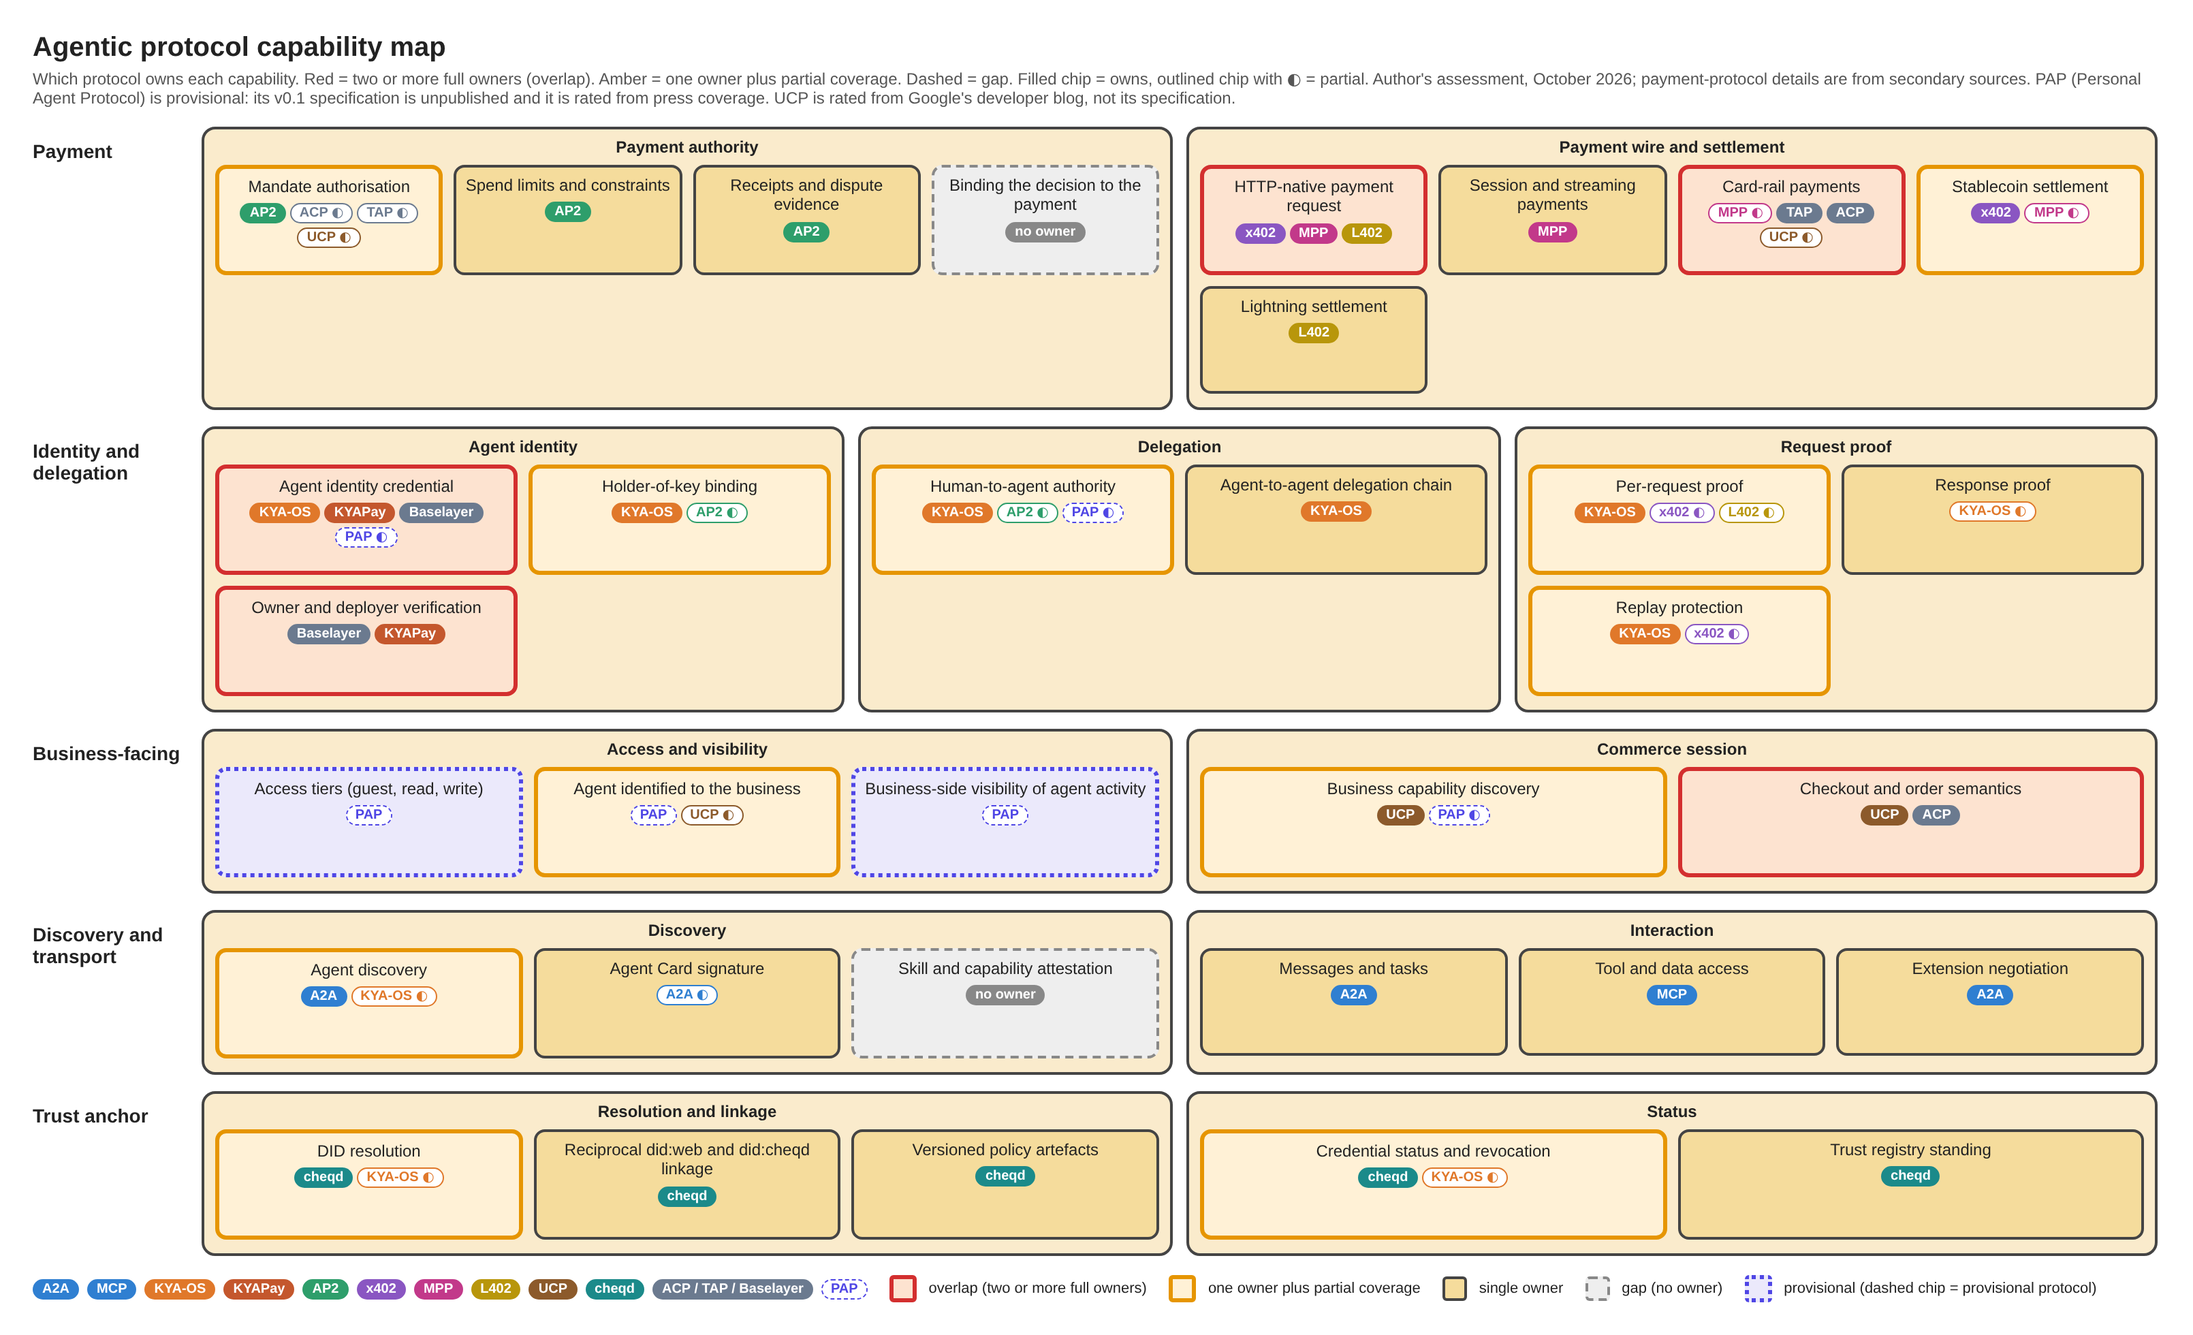
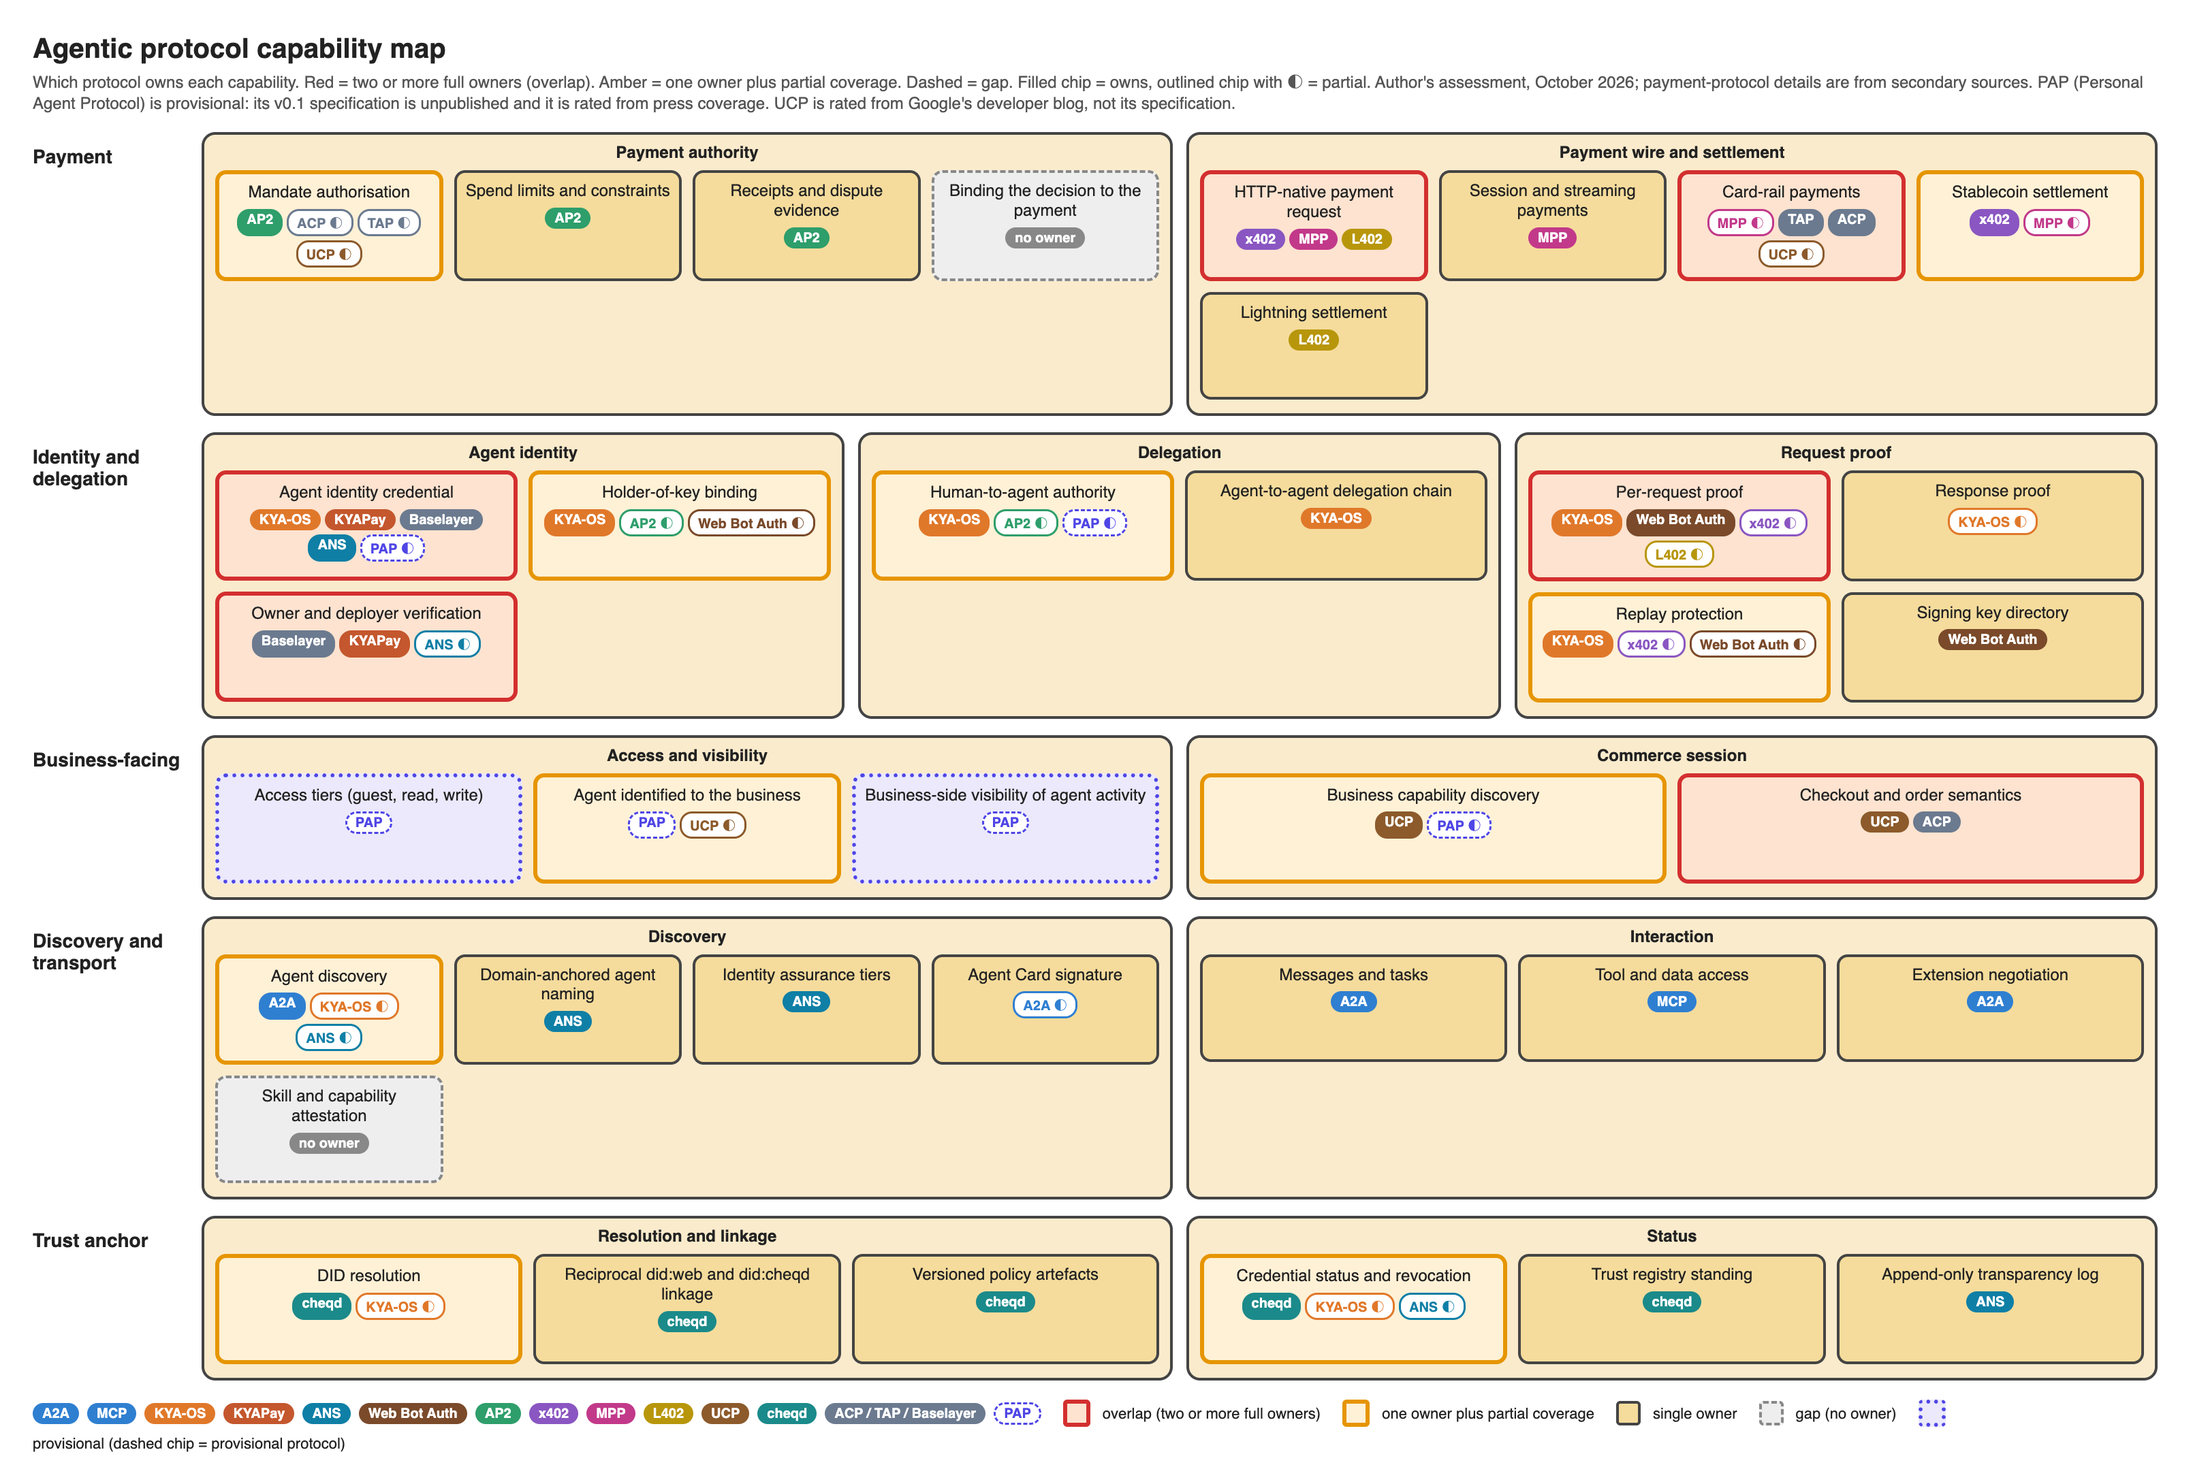
docs: add ANS and Web Bot Auth to the capability map
Add Agent Name Service (draft-narajala-courtney-ansv2-01) and Web Bot Auth
(draft-ietf-webbotauth-httpsig-protocol-00), rated from the full drafts.
Adds four capabilities, updates the matrix, counts and reading notes, and
regenerates both images.

diff --git a/docs/research/tools/capability-map/generate.py b/docs/research/tools/capability-map/generate.py
@@ -24,7 +24,8 @@ import html
 # protocol -> colour
 COL={'A2A':'#2f7fd1','KYA-OS':'#e0782a','AP2':'#2e9e6b','x402':'#8a56c2','MPP':'#c2398a','L402':'#b8960b','cheqd':'#1b8a8a',
      'ACP':'#6b7a8f','TAP':'#6b7a8f','KYAPay':'#c4572d','Baselayer':'#6b7a8f','MCP':'#2f7fd1',
-     'UCP':'#8c5a2b','PAP':'#4f46e5'}
+     'UCP':'#8c5a2b','PAP':'#4f46e5','ANS':'#0f7fa6','WebBotAuth':'#7a4a2a'}
+LABEL={'WebBotAuth':'Web Bot Auth'}
 # Protocols whose ratings are provisional (specification unpublished or rated from secondary sources).
 # Their chips render dashed, and a box owned only by provisional protocols gets a dotted border.
 PROVISIONAL={'PAP'}
@@ -46,16 +47,17 @@ ROWS=[
  ]),
  ("Identity and delegation", [
    ("Agent identity", [
-     cap("Agent identity credential",[('KYA-OS','F'),('KYAPay','F'),('Baselayer','F'),('PAP','P')]),
-     cap("Holder-of-key binding",[('KYA-OS','F'),('AP2','P')]),
-     cap("Owner and deployer verification",[('Baselayer','F'),('KYAPay','F')])]),
+     cap("Agent identity credential",[('KYA-OS','F'),('KYAPay','F'),('Baselayer','F'),('ANS','F'),('PAP','P')]),
+     cap("Holder-of-key binding",[('KYA-OS','F'),('AP2','P'),('WebBotAuth','P')]),
+     cap("Owner and deployer verification",[('Baselayer','F'),('KYAPay','F'),('ANS','P')])]),
    ("Delegation", [
      cap("Human-to-agent authority",[('KYA-OS','F'),('AP2','P'),('PAP','P')]),
      cap("Agent-to-agent delegation chain",[('KYA-OS','F')])]),
    ("Request proof", [
-     cap("Per-request proof",[('KYA-OS','F'),('x402','P'),('L402','P')]),
+     cap("Per-request proof",[('KYA-OS','F'),('WebBotAuth','F'),('x402','P'),('L402','P')]),
      cap("Response proof",[('KYA-OS','P')]),
-     cap("Replay protection",[('KYA-OS','F'),('x402','P')])]),
+     cap("Replay protection",[('KYA-OS','F'),('x402','P'),('WebBotAuth','P')]),
+     cap("Signing key directory",[('WebBotAuth','F')])]),
  ]),
  ("Business-facing", [
    ("Access and visibility", [
@@ -68,7 +70,9 @@ ROWS=[
  ]),
  ("Discovery and transport", [
    ("Discovery", [
-     cap("Agent discovery",[('A2A','F'),('KYA-OS','P')]),
+     cap("Agent discovery",[('A2A','F'),('KYA-OS','P'),('ANS','P')]),
+     cap("Domain-anchored agent naming",[('ANS','F')]),
+     cap("Identity assurance tiers",[('ANS','F')]),
      cap("Agent Card signature",[('A2A','P')]),
      cap("Skill and capability attestation",[],True)]),
    ("Interaction", [
@@ -82,8 +86,9 @@ ROWS=[
      cap("Reciprocal did:web and did:cheqd linkage",[('cheqd','F')]),
      cap("Versioned policy artefacts",[('cheqd','F')])]),
    ("Status", [
-     cap("Credential status and revocation",[('cheqd','F'),('KYA-OS','P')]),
-     cap("Trust registry standing",[('cheqd','F')])]),
+     cap("Credential status and revocation",[('cheqd','F'),('KYA-OS','P'),('ANS','P')]),
+     cap("Trust registry standing",[('cheqd','F')]),
+     cap("Append-only transparency log",[('ANS','F')])]),
  ]),
 ]
 def _arg(flag):
@@ -122,7 +127,7 @@ def box(c):
     k=kind(c); stats[k].append(c['name'])
     def chip(p,l):
         cls='chip'+(' p' if l=='P' else '')+(' prov' if p in PROVISIONAL else '')
-        return f'<span class="{cls}" style="--c:{COL[p]}">{html.escape(p)}{"" if l=="F" else " <span class=h>◐</span>"}</span>'
+        return f'<span class="{cls}" style="--c:{COL[p]}">{html.escape(LABEL.get(p,p))}{"" if l=="F" else " <span class=h>◐</span>"}</span>'
     chips=''.join(chip(p,l) for p,l in c['owners'])
     if c['gap']: chips='<span class="chip none">no owner</span>'
     prov=' prov' if c['owners'] and all(p in PROVISIONAL for p,l in c['owners']) else ''
@@ -131,7 +136,7 @@ rows=''
 for rname, groups in ROWS:
     g=''.join(f'<div class="grp"><div class="gt">{html.escape(gn)}</div><div class="caps">{"".join(box(c) for c in cs)}</div></div>' for gn,cs in groups)
     rows+=f'<div class="row"><div class="rl">{html.escape(rname)}</div><div class="groups">{g}</div></div>'
-legend=''.join(f'<span class="chip" style="--c:{COL[p]}">{p}</span>' for p in ['A2A','MCP','KYA-OS','KYAPay','AP2','x402','MPP','L402','UCP','cheqd'] if p in COL)+'<span class="chip" style="--c:#6b7a8f">ACP / TAP / Baselayer</span>'+'<span class="chip prov" style="--c:#4f46e5">PAP</span>'
+legend=''.join(f'<span class="chip" style="--c:{COL[p]}">{LABEL.get(p,p)}</span>' for p in ['A2A','MCP','KYA-OS','KYAPay','ANS','WebBotAuth','AP2','x402','MPP','L402','UCP','cheqd'] if p in COL)+'<span class="chip" style="--c:#6b7a8f">ACP / TAP / Baselayer</span>'+'<span class="chip prov" style="--c:#4f46e5">PAP</span>'
 page=f'''<!doctype html><meta charset=utf-8><style>
 body{{margin:0;padding:24px;background:#fff;font-family:Helvetica,Arial,'DejaVu Sans',sans-serif;color:#222;width:1560px}}
 h1{{font-size:20px;margin:0 0 4px}} .sub{{font-size:12px;color:#555;margin-bottom:14px}}

diff --git a/docs/research/protocol-stack-2026-10.md b/docs/research/protocol-stack-2026-10.md
@@ -10,8 +10,8 @@ Five layers, with the trust anchor underneath. Protocols at the same layer are a
 flowchart TB
     L4["<b>Layer 4 - Payment wire and settlement</b><br/><i>alternatives</i><br/>x402 (HTTP 402, stablecoin)<br/>MPP (sessions, multi-method)<br/>L402 (Lightning, macaroons)"]
     L3["<b>Layer 3 - Payment authority: who may pay, how much</b><br/>AP2 (intent, checkout and payment mandates, cnf key binding)<br/>ACP (checkout in ChatGPT)<br/>Visa TAP (card network)"]
-    L2["<b>Layer 2 - Agent identity, delegation and request proof</b><br/>KYA-OS (Entity Card, proof.v1, delegation credentials, cnf)<br/>KYAPay (kya and pay JWTs)<br/>Baselayer KYA (commercial, closed)"]
-    L1["<b>Layer 1 - Discovery and transport</b><br/>A2A (Agent Card, messages, tasks, extensions)<br/>MCP (tools and data)"]
+    L2["<b>Layer 2 - Agent identity, delegation and request proof</b><br/>KYA-OS (Entity Card, proof.v1, delegation credentials, cnf)<br/>KYAPay (kya and pay JWTs)<br/>Web Bot Auth (RFC 9421 signatures, Signature-Agent URL as identity, JWKS key directory)<br/>Baselayer KYA (commercial, closed)"]
+    L1["<b>Layer 1 - Discovery and transport</b><br/>A2A (Agent Card, messages, tasks, extensions)<br/>ANS (DNS-anchored agent names, identity certificates, transparency log, assurance tiers)<br/>MCP (tools and data)"]
     L0["<b>Layer 0 - Public trust anchor</b><br/>cheqd (did:cheqd, DID-Linked Resources, status lists, trust registries)<br/>did:web<br/>did:key"]
 
     L4 -->|"payment is authorised by"| L3
@@ -46,35 +46,43 @@ Two protocols were added to the map in October 2026, with a new Business-facing 
 - **PAP (Personal Agent Protocol, Sierra and Meta) is provisional.** Its v0.1 specification is due later in October and is unpublished. It is rated from press coverage only, so every PAP rating should be revisited when the specification lands. It is rated partial on agent identity credential and human-to-agent authority, and owns access tiers (guest, read, write) and business-side visibility of agent activity.
 - **UCP (Google Universal Commerce Protocol)** is rated from Google's developer blog post, not its specification. It owns business capability discovery (a manifest the business publishes) and checkout and order semantics, and is partial on mandate authorisation and card-rail payments because it defers payment security to AP2 and processing to payment handlers.
 
-Counts for the full map: 33 capabilities, of which 5 overlap, 11 have partial overlap, 2 are gaps and 15 have a single owner.
+ANS (Agent Name Service) and Web Bot Auth were added after reading both Internet-Drafts in full. Both are early drafts. ANS is `draft-narajala-courtney-ansv2-01` (independent submission, Informational, shown as expired and archived). Web Bot Auth is `draft-ietf-webbotauth-httpsig-protocol-00` (working-group draft, Standards Track). See the bullets under the capability matrix for what each does and does not cover.
+
+Counts for the full map: 37 capabilities, of which 6 overlap, 10 have partial overlap, 2 are gaps and 19 have a single owner.
 
 | Kind | Capabilities |
 |---|---|
-| Overlap (two or more full owners) | HTTP-native payment request (x402, MPP, L402); card-rail payments (TAP, ACP, with MPP and UCP partial); agent identity credential (KYA-OS, KYAPay, Baselayer, with PAP partial); owner and deployer verification (Baselayer, KYAPay); checkout and order semantics (UCP, ACP) |
-| Partial overlap | Mandate authorisation; stablecoin settlement; holder-of-key binding; human-to-agent authority; per-request proof; replay protection; agent discovery; DID resolution; credential status and revocation; agent identified to the business (PAP, UCP partial); business capability discovery (UCP, PAP partial) |
+| Overlap (two or more full owners) | HTTP-native payment request (x402, MPP, L402); card-rail payments (TAP, ACP, with MPP and UCP partial); agent identity credential (KYA-OS, KYAPay, Baselayer, ANS, with PAP partial); owner and deployer verification (Baselayer, KYAPay, with ANS partial); per-request proof (KYA-OS, Web Bot Auth); checkout and order semantics (UCP, ACP) |
+| Partial overlap | Mandate authorisation; stablecoin settlement; holder-of-key binding; human-to-agent authority; replay protection; agent discovery (A2A full, KYA-OS and ANS partial); DID resolution; credential status and revocation (cheqd full, KYA-OS and ANS partial); agent identified to the business (PAP, UCP partial); business capability discovery (UCP, PAP partial) |
 | Gap | Binding the decision to the payment; skill and capability attestation |
 
 ### Capability matrix
 
 ● owns the capability  ◐ partial  ○ none
 
-| Capability | A2A | KYA-OS | AP2 | x402 | MPP | L402 | cheqd |
-|---|---|---|---|---|---|---|---|
-| Agent discovery | ● | ◐ (Entity Card) | ○ | ○ | ◐ | ○ | ○ |
-| Message and task transport | ● | ○ | ○ | ○ | ◐ | ○ | ○ |
-| Agent identity | ◐ (signed card, no key trust model) | ● | ◐ (key binding only) | ○ | ◐ | ○ | ● (anchor) |
-| Delegated authority | ○ (multi-hop identity loss) | ● | ◐ (agent-to-agent out of scope) | ○ | ○ | ○ | ○ |
-| Per-request proof | ○ | ● | ○ | ◐ (payment signature) | ◐ | ◐ (macaroon) | ○ |
-| Payment authority | ○ | ○ | ● | ○ | ◐ | ○ | ○ |
-| Payment wire | ○ | ○ | ○ | ● | ● | ● | ○ |
-| Settlement | ○ | ○ | ○ | ● (USDC on-chain) | ◐ (cards and stablecoin) | ● (Lightning) | ○ |
-| Revocation and status | ○ | ● | ◐ | ○ | ○ | ○ | ● |
+| Capability | A2A | ANS | Web Bot Auth | KYA-OS | AP2 | x402 | MPP | L402 | cheqd |
+|---|---|---|---|---|---|---|---|---|---|
+| Agent discovery | ● | ◐ (DNS-anchored names) | ○ | ◐ (Entity Card) | ○ | ○ | ◐ | ○ | ○ |
+| Message and task transport | ● | ○ | ○ | ○ | ○ | ○ | ◐ | ○ | ○ |
+| Agent identity | ◐ (signed card, no key trust model) | ● (identity certificate) | ◐ (URL as identifier, no operator identity) | ● | ◐ (key binding only) | ○ | ◐ | ○ | ● (anchor) |
+| Delegated authority | ○ (multi-hop identity loss) | ○ | ○ (out of scope) | ● | ◐ (agent-to-agent out of scope) | ○ | ○ | ○ | ○ |
+| Per-request proof | ○ | ○ (mTLS, channel-level) | ● (HTTP message signature) | ● | ○ | ◐ (payment signature) | ◐ | ◐ (macaroon) | ○ |
+| Payment authority | ○ | ○ | ○ | ○ | ● | ○ | ◐ | ○ | ○ |
+| Payment wire | ○ | ○ | ○ | ○ | ○ | ● | ● | ● | ○ |
+| Settlement | ○ | ○ | ○ | ○ | ○ | ● (USDC on-chain) | ◐ (cards and stablecoin) | ● (Lightning) | ○ |
+| Revocation and status | ○ | ◐ (lifecycle events in log; identity-cert revocation unspecified) | ○ (no revocation, keys expire out of the directory) | ● | ◐ | ○ | ○ | ○ | ● |
 
 Reading the matrix:
 
 - **A2A and KYA-OS are complementary.** A2A carries the interaction. KYA-OS supplies what A2ABreak found missing: key trust, delegation and request proof.
 - **AP2 and x402 sit at different layers.** AP2 says whether an agent may pay. x402 is one way the payment travels. They are not rivals.
 - **x402, MPP and L402 compete** at layer 4. MPP is reported to accept x402 as one of its payment methods, so the two also overlap.
+- **ANS and Web Bot Auth are complementary.** ANS answers *which agent is this and should I trust its domain*: a name, a certificate and an assurance tier. Web Bot Auth answers *did the holder of this key sign this request*: an HTTP message signature, with the key found at a URL the agent names in `Signature-Agent`.
+- **Neither carries delegation.** Web Bot Auth defers it (a chained signature shows forwarding, not authorisation). ANS only mentions a W3C Verifiable Credential for a platform registering on a tenant's behalf, and an RFC 8693 token for human authority. KYA-OS remains the only full owner.
+- **Web Bot Auth identifies a URL, not an operator.** The draft says the signature proves control of a published key and says nothing about who runs the agent, and it excludes trust accrual and authorisation. It defines no revocation: removal from the directory takes effect when caches expire. Both are places where a ledger-anchored identity and status could plug in.
+- **ANS authenticates the channel, not each request.** The agent proves itself by mTLS and a sealed badge. Detached JWS signing is used for registration-authority API calls only, so ANS does not own per-request proof.
+- **ANS names a DID as a complement, not a dependency.** Its principal binding can carry a DID, and `did:web` and `did:ethr` are listed as future work. `did:cheqd` is not mentioned. Its transparency log (SCITT-style, Merkle proofs, COSE receipts) is an alternative to ledger anchoring for lifecycle evidence.
+- **Both are early drafts.** Web Bot Auth is `draft-ietf-webbotauth-httpsig-protocol-00` (1 Sep 2026, Standards Track, working-group draft, Cloudflare and Google authors). ANS is `draft-narajala-courtney-ansv2-01` (13 Apr 2026, independent submission, Informational; authors from GoDaddy, OWASP, DistributedApps.ai and Cisco), shown as expired and archived on the Datatracker. ANS has internal inconsistencies, for example OV or EV server certificates in Table 1 against a DV example in Appendix A.3, and its Trust Index and federation are described but not specified.
 - **cheqd is not a protocol in this stack.** It supplies durable, independently resolvable identity and status that layers 1 to 3 can reference.
 - **Gaps:** nothing here ties the signed *decision* to the payment. The AP2 whisper-attack paper reports this gap, and key binding does not close it.
 

diff --git a/docs/research/tools/capability-map/README.md b/docs/research/tools/capability-map/README.md
@@ -30,11 +30,11 @@ Any headless Chromium works. For example, with Chrome on macOS:
 
 ```bash
 "/Applications/Google Chrome.app/Contents/MacOS/Google Chrome" --headless \
-  --hide-scrollbars --force-device-scale-factor=2 --window-size=1610,980 \
+  --hide-scrollbars --force-device-scale-factor=2 --window-size=1610,1090 \
   --screenshot=protocol-capability-map.png file://$PWD/capability-map.html
 ```
 
-The window size fits the current content. Use a height of 850 instead of 980 for the `--no-cheqd` version, and change it if you add rows. The half-circle glyph is set in DejaVu Sans; if your machine lacks it, the glyph falls back to a system font and may look smaller.
+The window size fits the current content. Use a height of 960 instead of 1090 for the `--no-cheqd` version, and change it if you add rows. The half-circle glyph is set in DejaVu Sans; if your machine lacks it, the glyph falls back to a system font and may look smaller.
 
 ## Provisional protocols
 
